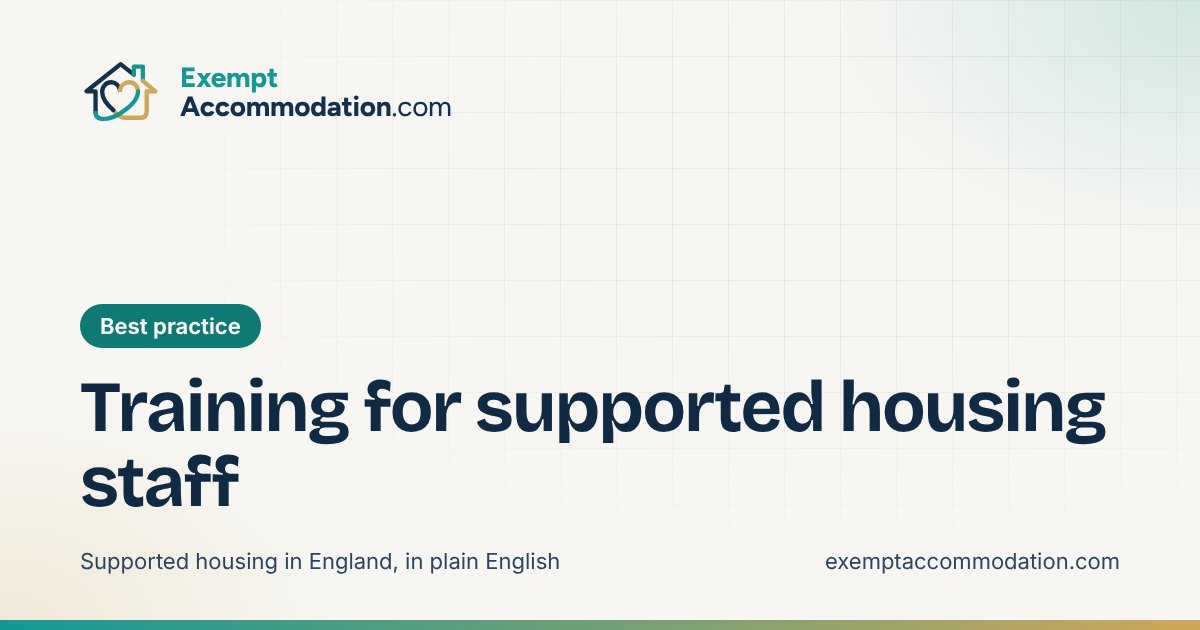
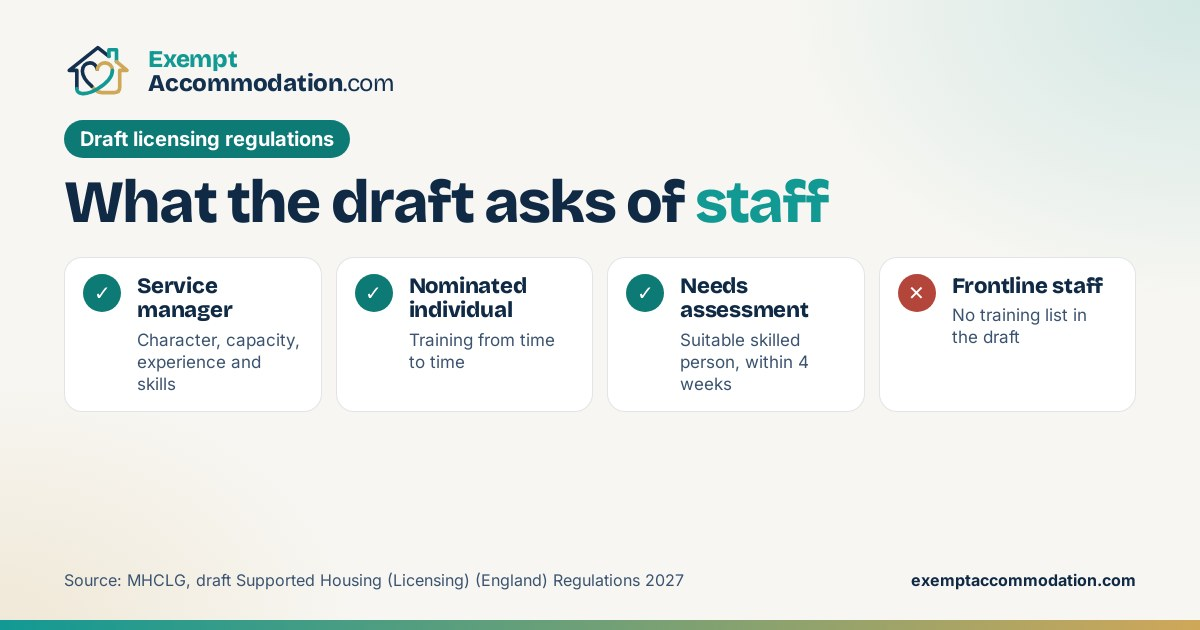
Refresh: training for supported housing staff (11 Nov 2026)
What changed: Competence and Conduct Standard dated to 1 October 2026 and its
qualification deadlines (1 October 2029 / 2030) taken from MHCLG's FAQ; new section on
what the draft Supported Housing (Licensing) (England) Regulations 2027 say about staff
(draft reg 12(3) service manager test, reg 15 nominated individual training, Sch 3
paras 14-15 needs assessments), read from the consultation PDF; unsourced "councils look
for" claims softened; two primary sources added; new diagram share image. Also the
Wednesday LinkedIn post in the weekly record, rewritten to match.

Claude-Session: https://claude.ai/code/session_01QFNGVCdQ4Rq1e3DLZwmiFZ

diff --git a/docs/marketing/linkedin/2026-11-09.md b/docs/marketing/linkedin/2026-11-09.md
@@ -67,22 +67,35 @@ Do your note templates have a field for the plan goal, or does it rely on the wo
 
 ---
 
-## Wednesday 11 November: the training matrix
+## Wednesday 11 November: what the draft licensing regulations say about staff
 
-No single law lists the training supported housing staff must have. The duties come from several places:
+The draft licensing regulations don't give frontline support workers a training list. A lot of people assume they will.
 
-- Fire safety training is a legal duty for every member of staff, at induction and whenever the risks change.
-- Registered Providers must meet the Competence and Conduct Standard, which started last month.
-- CQC-registered services must train staff in learning disability and autism.
-- Licensing is expected to check that service managers have suitable skills and experience.
+I read the draft Supported Housing (Licensing) (England) Regulations 2027 for what they actually say about staff. It's narrower than you might expect.
 
-A certificate is not proof of competence. What councils look for is a training matrix with dates, and supervision notes that show staff can apply it.
+The service manager. Draft regulation 12(3) proposes a licence is only granted if the service manager has the character, capacity, appropriate experience and skills for the role.
 
-I have written a guide with a training matrix you can start from. Link in the comments.
+The nominated individual. Draft regulation 15 proposes they undertake training from time to time. It's the only training requirement in the draft.
 
-**First comment:** https://exemptaccommodation.com/guides/training-for-supported-housing-staff/?utm_source=linkedin&utm_medium=social&utm_campaign=2026-11-11-training
+Needs assessments. Draft Schedule 3 proposes each resident is assessed within 4 weeks of moving in, by a suitable skilled person.
 
-**Image:** `public/og/guides/training-for-supported-housing-staff.jpg`
+That's it on staff. No list of courses for support workers, and no staffing levels.
+
+It doesn't make training optional. Fire safety training is already a legal duty for every member of staff under article 21 of the Fire Safety Order. Registered providers have had to meet the Competence and Conduct Standard since 1 October. And if a council is judging whether a service manager has the capacity for the role, how the team they run is trained and supervised is the obvious place to look.
+
+It's still a draft. The consultation closes on 10 December.
+
+If the final regulations stay this light on frontline training, should the national standards be where that gap gets filled?
+
+#SupportedHousing #ExemptAccommodation
+
+**First comment:** https://exemptaccommodation.com/guides/training-for-supported-housing-staff/?utm_source=linkedin&utm_medium=social&utm_campaign=2026-11-11-training-for-supported-housing-staff
+
+**Guide (refreshed 11 November):** https://exemptaccommodation.com/guides/training-for-supported-housing-staff/
+
+**Image:** Canva photo, https://www.canva.com/M/MAHaluxTSFM
+
+**Changed from the first draft:** rewritten after reading the draft licensing regulations on 11 November. The earlier draft said "councils look for" a training matrix, which no source supports.
 
 ---
 
